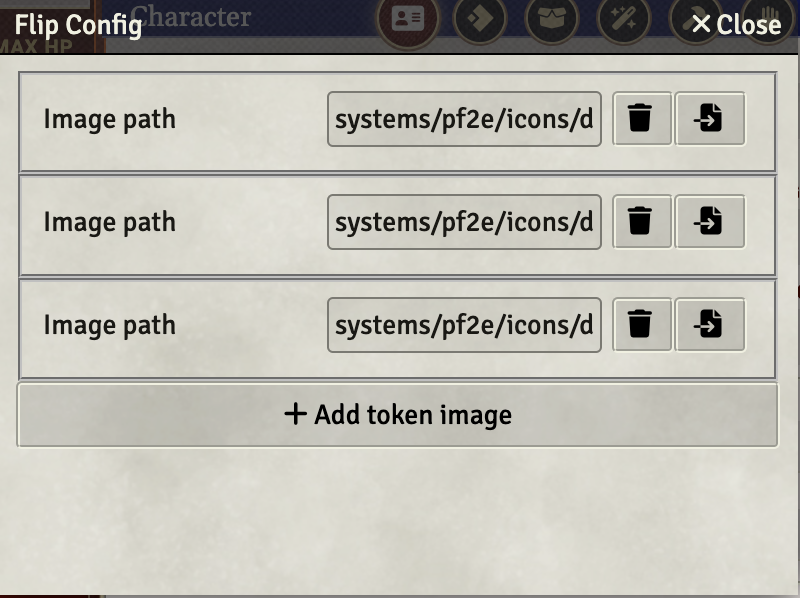
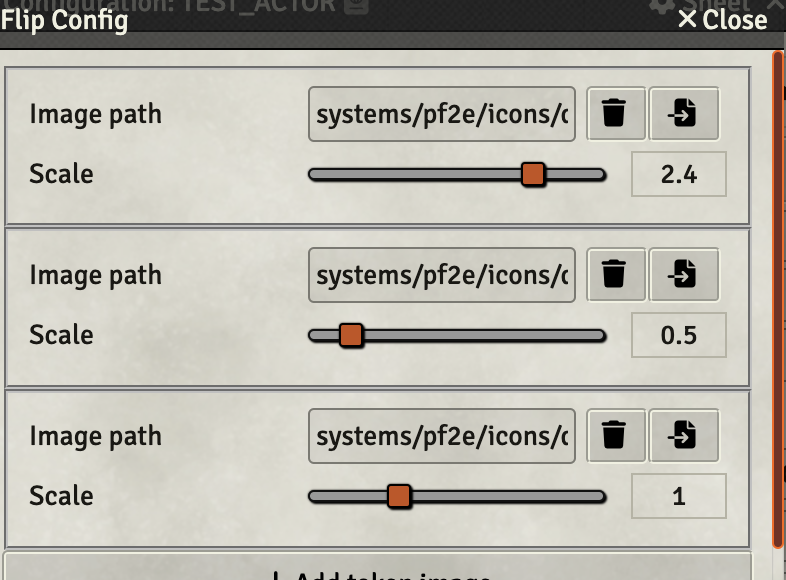
add scale feature

Changed region(s): [[0.0, 0.0, 1.0, 1.0]]

diff --git a/src/flipForm.js b/src/flipForm.js
@@ -2,7 +2,8 @@ export default class FlipFormApplication extends FormApplication {
   constructor(obj) {
     super();
     this.object = obj;
-    this.paths = this.object.object.flags?.['flip-token']?.['tokens']?.['values'] ?? [this.object.token.texture.src];
+    this.paths = this.object.object.flags?.['flip-token']?.['tokens']?.['values']
+        ?? [{"path":this.object.token.texture.src, 'scale': 1}];
     this.values = this.getPathObjs();
   }
 
@@ -11,7 +12,8 @@ export default class FlipFormApplication extends FormApplication {
       return {
         'idx': index,
         'target': 'flipIcon-' + index,
-        'path': ce.path
+        'path': ce.path,
+        'scale': ce.scale ?? 1
       };
     });
   }
@@ -34,11 +36,12 @@ export default class FlipFormApplication extends FormApplication {
 
     close() {
         super.close();
+        console.log(this.paths)
         this.object.object.update({
-                "flags.flip-token.tokens.values": this.paths
+            "flags.flip-token.tokens.values": this.paths
         });
         this.object.object.update({
-                "flags.flip-token.tokens.idx": 0
+            "flags.flip-token.tokens.idx": 0
         });
         if (this.paths.length > 0) {
             this.object.actor.update({"img": this.paths[0].path});
@@ -48,13 +51,16 @@ export default class FlipFormApplication extends FormApplication {
   activateListeners(html) {
     super.activateListeners(html);
     html.find('.flip-save').click(async (event) => {
-        this._updateObject('addRow', {path: ''});
+        this._updateObject('addRow', {path: '', 'scale': 1});
     });
     html.find('.flip-delete').click(async (event) => {
         this._updateObject('deleteRow', null, $(event.currentTarget).data().idx);
     });
     html.find('input.image').change(async (event) => {
-        this._updateObject('updateRow', {path: event.target.value}, $(event.currentTarget).data().idx);
+        this._updateObject('updatePath', event.target.value, $(event.currentTarget).data().idx);
+    });
+    html.find('input.scale-value').change(async (event) => {
+        this._updateObject('updateScale', event.target.value, $(event.currentTarget).data().idx);
     });
   }
 
@@ -67,8 +73,11 @@ export default class FlipFormApplication extends FormApplication {
         this.paths.splice(idx, 1);
         this.values = this.getPathObjs();
         super.render()
-    } else if (event == 'updateRow') {
-        this.paths[idx] = val;
+    } else if (event == 'updatePath') {
+        this.paths[idx].path = val;
+        this.values = this.getPathObjs();
+    } else if (event == 'updateScale') {
+        this.paths[idx].scale = parseFloat(val);
         this.values = this.getPathObjs();
     }
   }

diff --git a/src/pf2e-flip-token.js b/src/pf2e-flip-token.js
@@ -8,6 +8,17 @@ const SOURCE_MENU_ITEM = (img, tooltip) => {
 	</button>`;
 };
 
+function updateToken(hud, idx, path, scale) {
+    if (!scale) {scale = 1;}
+    hud.object.document.update({
+        "flags.flip-token.tokens.idx": idx
+    });
+    console.log(path);
+    console.log(scale);
+    hud.object.document.update({"img": path, "scale": scale});
+    console.log(hud.object);
+}
+
 Hooks.on("renderTokenConfig", async (app, $html) => {
     let tbutton = $('<button type="submit" class="flip-config"><i class="far fa-repeat"></i>Flip Config</button>');
     tbutton.click(async (event) => {
@@ -33,15 +44,9 @@ Hooks.on("renderTokenHUD", (hud, hudHtml, hudData) => {
         if (values) {
             let idx = hud.object.document.flags?.['flip-token']?.['tokens']?.['idx'];
             if ((idx +1) < values.length) {
-                hud.object.document.update({
-                    "flags.flip-token.tokens.idx": (idx +1)
-                });
-                hud.object.document.update({"img": values[idx + 1].path});
+                updateToken(hud, (idx +1), values[idx + 1].path, values[idx + 1]?.scale ?? 1)
             } else {
-                hud.object.document.update({
-                    "flags.flip-token.tokens.idx": 0
-                });
-                hud.object.document.update({"img": values[0].path});
+                updateToken(hud, 0, values[0].path, values[0]?.scale ?? 1)
             }
         }
     });
@@ -57,10 +62,7 @@ Hooks.on("renderTokenHUD", (hud, hudHtml, hudData) => {
         icon.src = value.path;
         picture.append(icon);
         $(picture).find('img').click(async (event) => {
-            hud.object.document.update({
-                "flags.flip-token.tokens.idx": i
-            });
-            hud.object.document.update({"img": value.path});
+            updateToken(hud, i, value.path, value?.scale ?? 1)
         });
 
         tbutton.find(".flip-tokens").append(picture);

diff --git a/README.md b/README.md
@@ -16,6 +16,8 @@ New button to open configuration
 ![new button](./token_image.png)
 Configuration to choose token images
 ![coonfig](./config.png)
+To use scale feature need to unlock it in Token configuration
+![unlock](./unlock.png)
 New button to change token image. L-click to change to next image, R-click to open context menu with all images.
 ![list of tokens](./token_images.png)
 
@@ -42,7 +44,7 @@ Open Game License:
 [Minimum Foundry 10]: https://img.shields.io/badge/Minimum%20Foundry-10.291-informational?style=flat-square
 [Verified Foundry 10]: https://img.shields.io/badge/Verified%20Foundry-10.291-informational?style=flat-square
 
-[Version]: https://img.shields.io/badge/Version-0.0.1-yellow?style=flat-square
+[Version]: https://img.shields.io/badge/Version-0.0.2-yellow?style=flat-square
 [Version URL]: https://github.com/reyzor1991/foundry-vtt-pf2e-flip-token
 
 [GitHub Release Date]: https://img.shields.io/github/release-date/reyzor1991/foundry-vtt-pf2e-flip-token

diff --git a/CHANGELOG.md b/CHANGELOG.md
@@ -1,1 +1,7 @@
 # Changelog
+
+## Version 0.0.2
+
+### New Features
+
+-   Add scale feature
